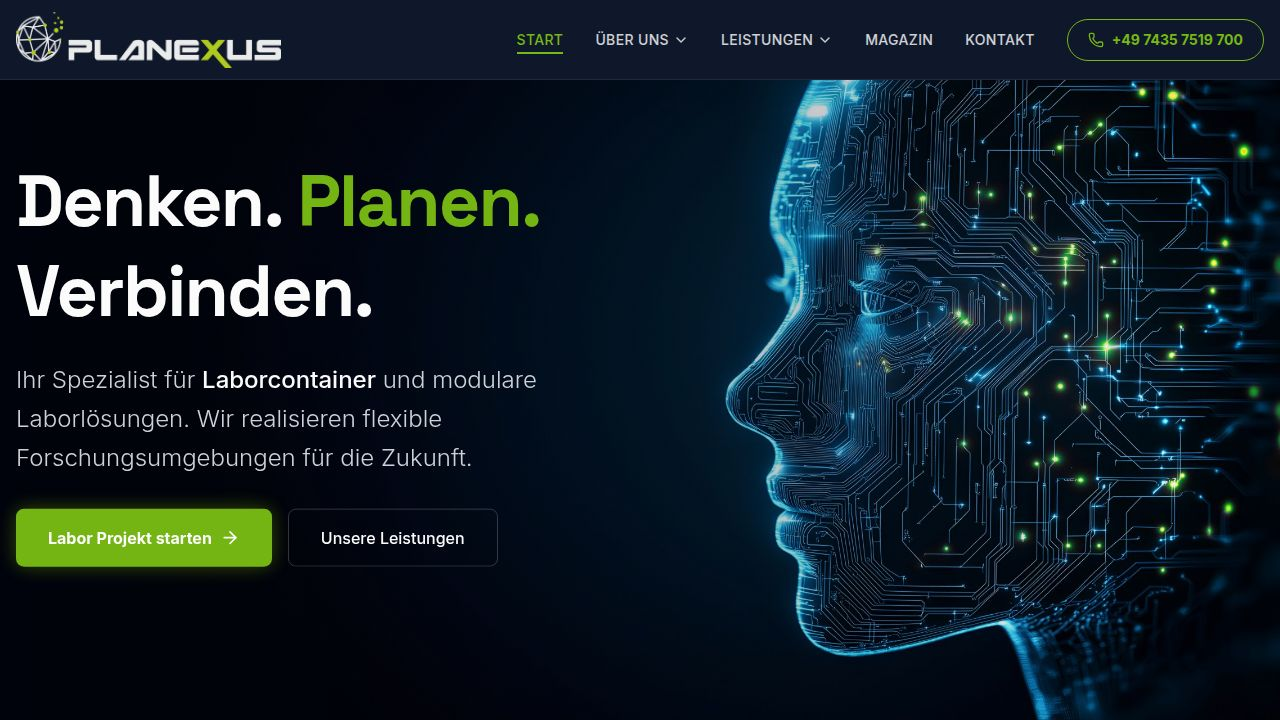
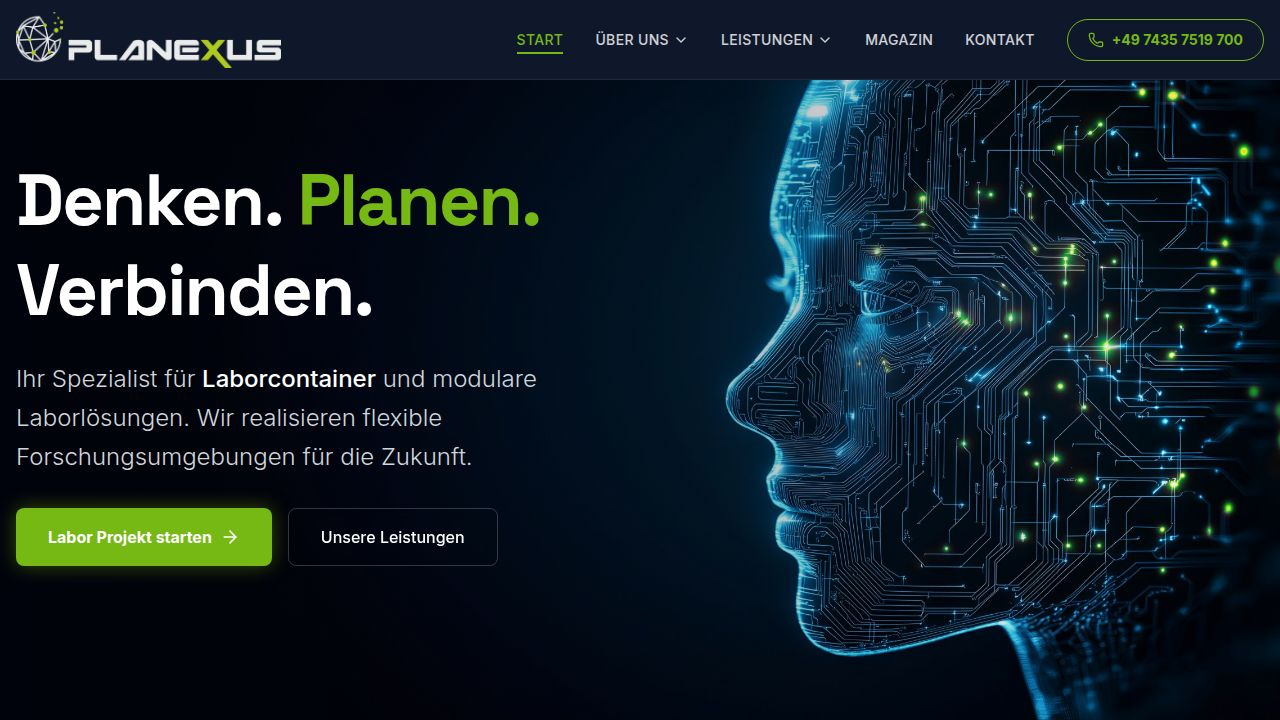
Fix liquid distortion effect to accurately follow mouse pointer
Adjusts UV coordinate handling in LiquidDistortion.tsx to correct the Y-axis inversion, ensuring the distortion effect precisely mirrors mouse movements.

Replit-Commit-Author: Agent
Replit-Commit-Session-Id: fa74fec4-5bf0-4c41-8153-e1e5d400dad8
Replit-Commit-Checkpoint-Type: full_checkpoint
Replit-Commit-Event-Id: d723bdb2-96ad-4948-8022-59ff677db905
Replit-Commit-Screenshot-Url: https://storage.googleapis.com/screenshot-production-us-central1/fd76aba6-7a99-4c65-995d-a4fd8c5b059b/fa74fec4-5bf0-4c41-8153-e1e5d400dad8/6Ak5Qne
Replit-Helium-Checkpoint-Created: true

diff --git a/client/src/components/LiquidDistortion.tsx b/client/src/components/LiquidDistortion.tsx
@@ -56,7 +56,8 @@ export function LiquidDistortion({ imageSrc, className = "" }: LiquidDistortionP
       void main() {
         vec2 uv = vUv;
         
-        vec2 mouse = uMouse;
+        // UV y ist invertiert (0 = oben, 1 = unten für Textur-Mapping)
+        vec2 mouse = vec2(uMouse.x, 1.0 - uMouse.y);
         float dist = distance(uv, mouse);
         
         // Sehr kleiner lokaler Radius - nur direkt um die Maus herum
@@ -113,7 +114,7 @@ export function LiquidDistortion({ imageSrc, className = "" }: LiquidDistortionP
       if (!container || !material) return;
       const rect = container.getBoundingClientRect();
       const x = (e.clientX - rect.left) / rect.width;
-      const y = 1.0 - (e.clientY - rect.top) / rect.height;
+      const y = (e.clientY - rect.top) / rect.height;
       
       gsap.to(material.uniforms.uMouse.value, {
         x,
